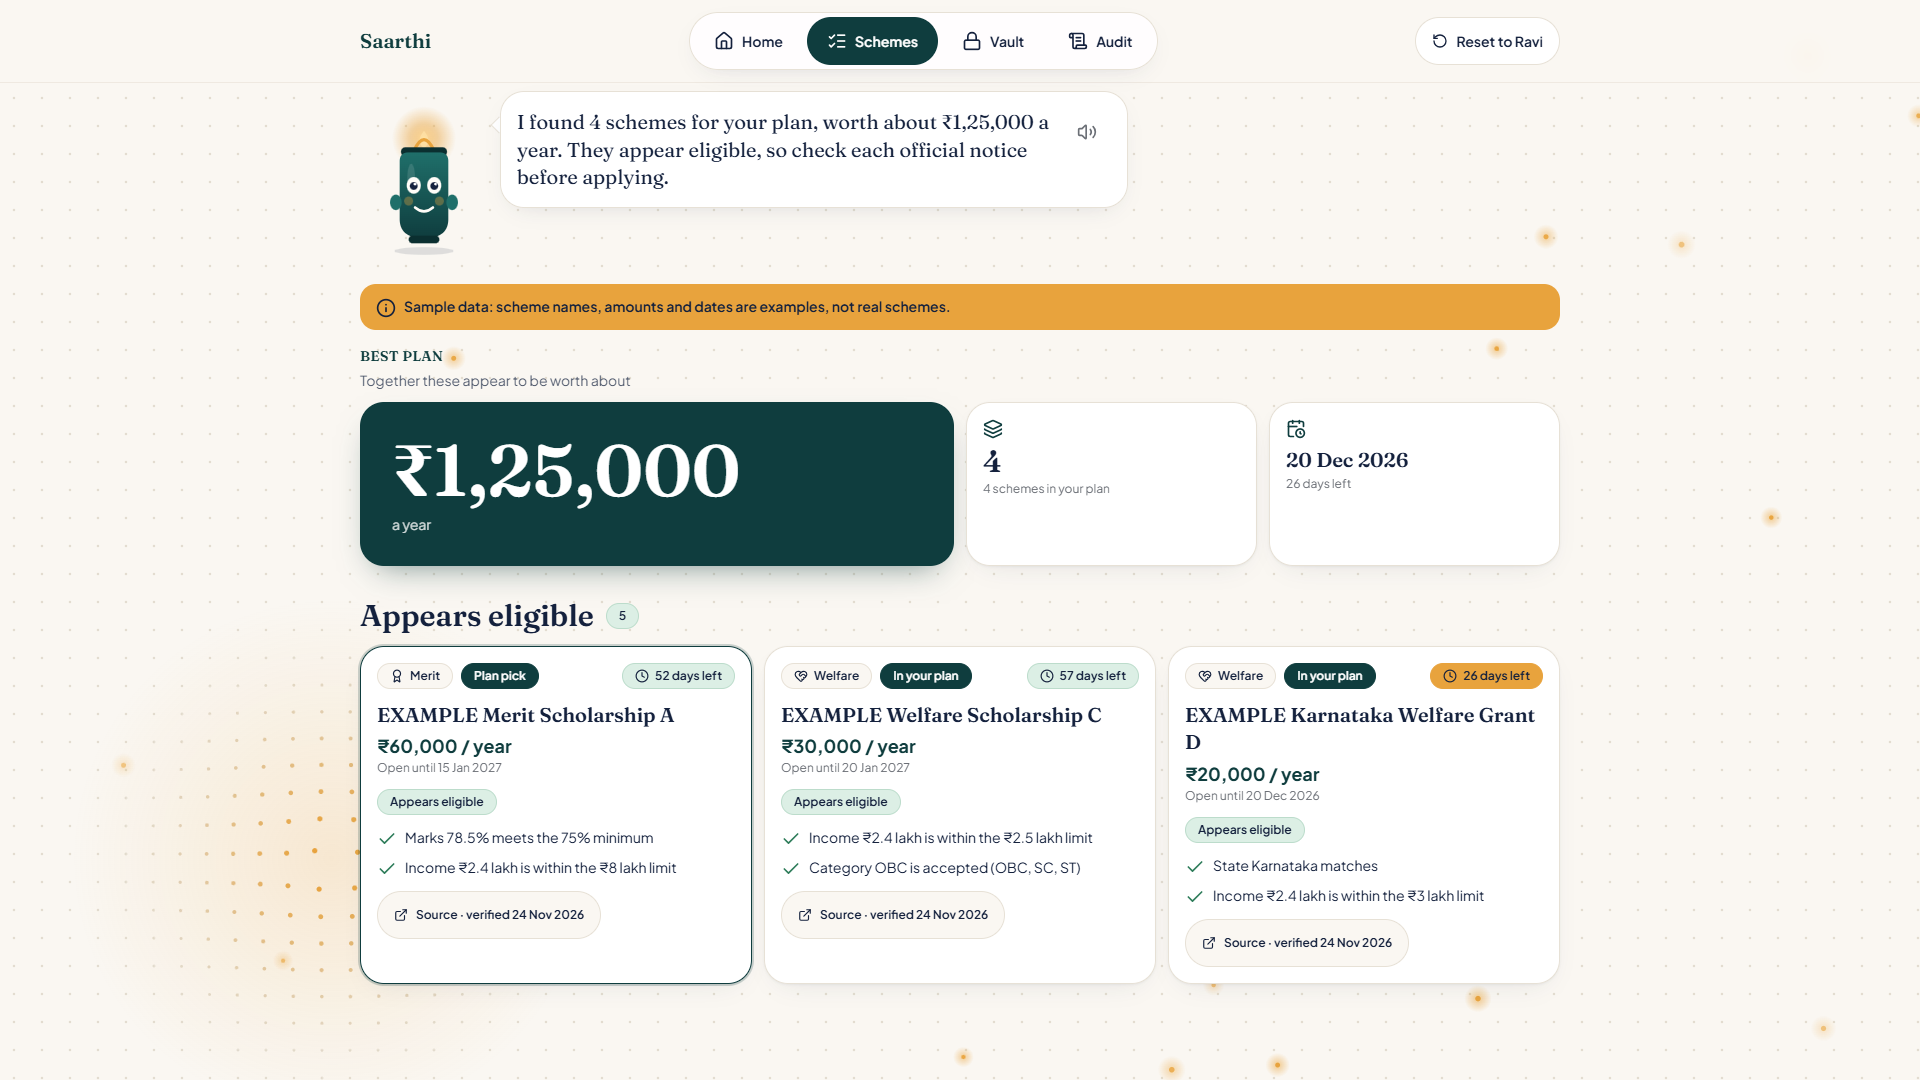
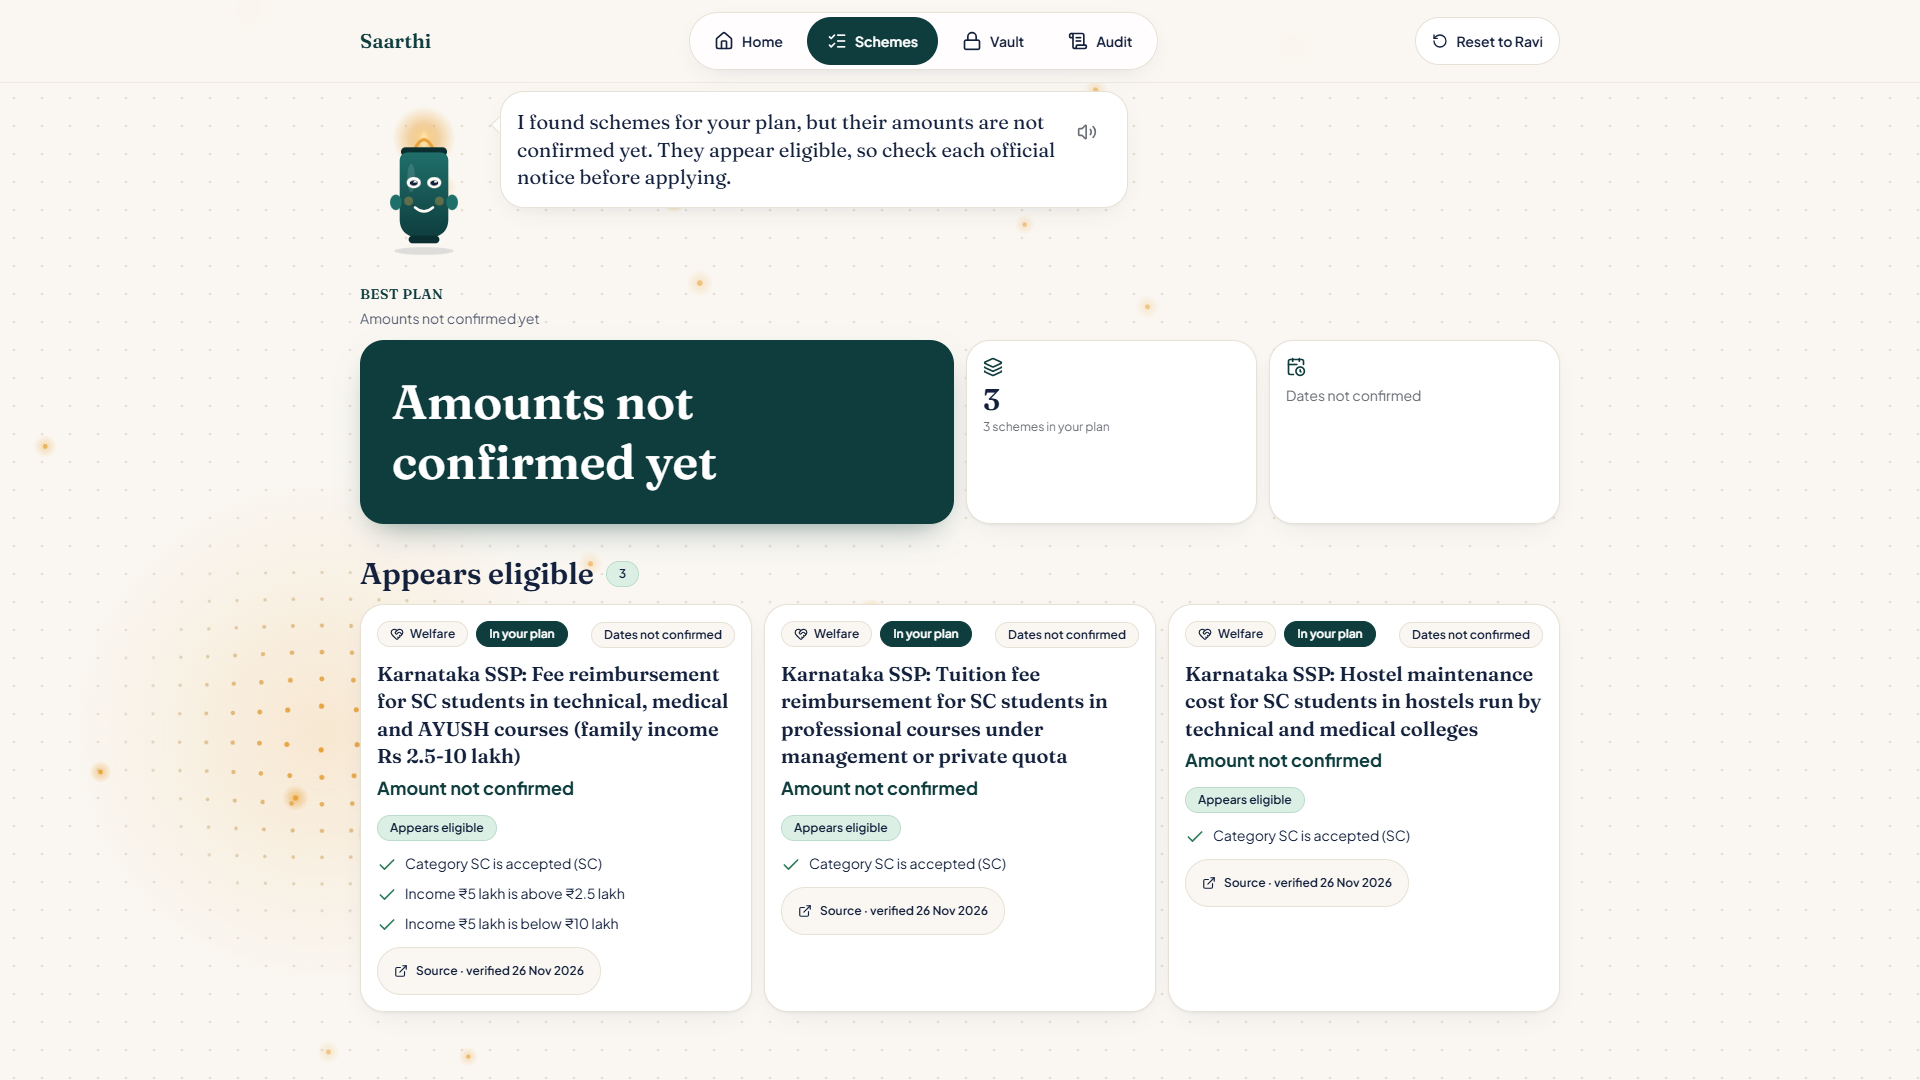
docs: screenshots in API mode, README dataset row and limits
Screenshots retaken in API mode at 1920x1080 from a production build with the real dataset and no EXAMPLE names. The vault checklist falls back to schemes the student may still qualify for, the plan hero handles unknown amounts, the sample document says SAMPLE, and the audit mock points at a real scheme id. README dataset row, known limits and caption updated; decision D22 recorded.

diff --git a/web/app/vault/page.tsx b/web/app/vault/page.tsx
@@ -2,7 +2,7 @@
 
 import { useEffect, useMemo, useRef, useState } from "react";
 import { Lock } from "lucide-react";
-import { getSchemes, optimize } from "@/lib/api";
+import { evaluate, getSchemes, optimize } from "@/lib/api";
 import { GuidePanel } from "@/components/guide/guide-panel";
 import { PageColumns } from "@/components/page-columns";
 import { DocRow } from "@/components/vault/doc-row";
@@ -16,15 +16,22 @@ export default function VaultPage() {
   const { profile, t } = useSession();
   const [schemes, setSchemes] = useState<Scheme[] | null>(null);
   const [selected, setSelected] = useState<string[]>([]);
+  const [possible, setPossible] = useState<string[]>([]);
   const container = useRef<HTMLElement>(null);
 
   useEffect(() => {
     let cancelled = false;
-    Promise.all([getSchemes(), optimize(profile)])
-      .then(([all, plan]) => {
+    Promise.all([getSchemes(), optimize(profile), evaluate(profile)])
+      .then(([all, plan, results]) => {
         if (cancelled) return;
         setSchemes(all);
         setSelected(plan.selected);
+        // Schemes the student has not been ruled out of: eligible, unknown or a near miss.
+        setPossible(
+          results
+            .filter((result) => result.verdict !== "ineligible" || result.near_miss)
+            .map((result) => result.scheme_id),
+        );
       })
       .catch(() => {
         if (!cancelled) setSchemes([]);
@@ -34,17 +41,23 @@ export default function VaultPage() {
     };
   }, [profile]);
 
-  // The checklist is every document the schemes in the plan ask for, with who needs it.
-  const needed = useMemo(() => {
-    const byDoc = new Map<string, string[]>();
-    for (const scheme of schemes ?? []) {
-      if (!selected.includes(scheme.id)) continue;
-      for (const doc of scheme.docs_required) {
-        byDoc.set(doc, [...(byDoc.get(doc) ?? []), scheme.name]);
+  // The checklist is every document the schemes in the plan ask for, with who needs it. If none of
+  // them has documents confirmed yet, it falls back to the schemes the student may still qualify for.
+  const { needed, usedFallback } = useMemo(() => {
+    const collect = (ids: string[]) => {
+      const byDoc = new Map<string, string[]>();
+      for (const scheme of schemes ?? []) {
+        if (!ids.includes(scheme.id)) continue;
+        for (const doc of scheme.docs_required) {
+          byDoc.set(doc, [...(byDoc.get(doc) ?? []), scheme.name]);
+        }
       }
-    }
-    return [...byDoc.entries()];
-  }, [schemes, selected]);
+      return [...byDoc.entries()];
+    };
+    const fromPlan = collect(selected);
+    if (fromPlan.length > 0) return { needed: fromPlan, usedFallback: false };
+    return { needed: collect(possible), usedFallback: true };
+  }, [schemes, selected, possible]);
 
   useReveal(container, schemes !== null);
 
@@ -67,6 +80,9 @@ export default function VaultPage() {
         </p>
       ) : (
         <div className="mt-4 space-y-3">
+          {usedFallback && needed.length > 0 && (
+            <p className="text-soft text-sm">{t("vault.fallbackNote")}</p>
+          )}
           {needed.map(([docKey, names]) => (
             <DocRow key={docKey} docKey={docKey} neededFor={names} />
           ))}

diff --git a/web/components/results/plan-hero.tsx b/web/components/results/plan-hero.tsx
@@ -37,19 +37,27 @@ export function PlanHero({
         {t("results.heroLabel")}
       </p>
       <p className="text-soft mt-1 text-sm">
-        {count > 0 ? t("results.heroBody") : t("results.noPlan")}
+        {count === 0
+          ? t("results.noPlan")
+          : plan.total_inr_per_year > 0
+            ? t("results.heroBody")
+            : t("results.amountsUnconfirmed")}
       </p>
 
       <div className="mt-3 grid grid-cols-2 gap-3 lg:grid-cols-4">
         <div className="col-span-2 rounded-3xl bg-primary p-5 text-white shadow-[0_14px_32px_-16px_rgba(15,61,62,0.6)] lg:p-8">
-          <p className="font-serif text-5xl font-semibold leading-none lg:text-7xl">
-            {plan.total_inr_per_year > 0 ? (
-              <CountUp value={plan.total_inr_per_year} kind="inr" />
-            ) : (
-              t("results.amountsUnconfirmed")
-            )}
-          </p>
-          <p className="mt-2 text-sm text-white/80">{t("results.perYear")}</p>
+          {plan.total_inr_per_year > 0 ? (
+            <>
+              <p className="font-serif text-5xl font-semibold leading-none lg:text-7xl">
+                <CountUp value={plan.total_inr_per_year} kind="inr" />
+              </p>
+              <p className="mt-2 text-sm text-white/80">{t("results.perYear")}</p>
+            </>
+          ) : (
+            <p className="font-serif text-3xl font-semibold leading-tight lg:text-5xl">
+              {t("results.amountsUnconfirmed")}
+            </p>
+          )}
         </div>
 
         <Card className="p-4">

diff --git a/web/lib/sample-docs.ts b/web/lib/sample-docs.ts
@@ -1,14 +1,14 @@
 // Made-up documents for the demo, so nobody has to upload a real certificate. No real data.
 export function makeSampleFile(docKey: string, label: string): File {
   const body = [
-    `EXAMPLE ${label.toUpperCase()}`,
+    `SAMPLE ${label.toUpperCase()}`,
     "",
     "This is a sample document made up for the Saarthi demo.",
     "It is not a real certificate and holds no real personal data.",
     "",
     `Document type : ${docKey}`,
     "Student       : Ravi (sample)",
-    "Issued by     : Example Office, Example District",
+    "Issued by     : Sample Office, Sample District",
   ].join("\n");
   return new File([body], `sample-${docKey}.txt`, { type: "text/plain" });
 }

diff --git a/context/decisions-and-progress.md b/context/decisions-and-progress.md
@@ -27,6 +27,7 @@ Update this file when a task finishes or a decision is made. Newest entries at t
 | D19 | 2026-11-24 | Engine, API and vault conventions (branch `rishon/engine-api-vault`). (a) An answer with `confirmed: false` counts as unknown in every endpoint, so an unconfirmed read-back can never change a verdict. (b) Near miss = ineligible on exactly one criterion, which is income over its cap by at most 20% of the cap, or marks under the minimum by at most 5 points; `fixable` is false for both (no fixable case is modelled yet). (c) Question choice: expected number of `unknown` schemes settled, with every plausible answer weighted equally (numbers are tried below, at, between and above each threshold); ties go to the cheaper question. Question text comes in en, hi and kn; choice labels stay English because `web/lib/answer-config.ts` maps labels to values. (d) `/slots/extract` is keyword and number rules only, no LLM. (e) Vault `appendAudit(entry, chain?)` continues the chain it is given (the adapter now passes it), because the UI seeds its log from `mocks/audit.json`; the D15 adapter called it without the chain, which would have restarted `idx` at 0. (f) `PUT /audit/head` only moves forward: a lower `idx` or a different hash at the same `idx` returns 409. Vault blobs and the head are kept in memory for round 1. (g) Answer to open decision 7, confirmed 2026-11-24: the optimiser never selects a closed scheme and lists it in `dropped` as "Application window is closed" (what the results screen mock already expects). A window is closed if its `status` is closed or its `closes` date is before `SAARTHI_TODAY` (or today). | Keeps the contracts unchanged while fixing two integration gaps found by running the UI against the real API and vault. No new web dependencies: vault tests use Node's built-in runner. API dependencies: fastapi, uvicorn, pydantic, httpx, python-multipart (pinned in `api/requirements.txt`). |
 | D20 | 2026-11-24 | Voice tested live with ElevenLabs (free plan). Speech-to-text (`scribe_v1`) transcribed English, Hindi and Kannada test speech word for word. Text-to-speech: `eleven_flash_v2_5` is good for English and Hindi but turns Kannada into anglicised gibberish, so Kannada now uses `eleven_v3` (`ELEVENLABS_TTS_MODEL_KN`). Free plans cannot use library voices through the API (HTTP 402 `paid_plan_required`); use a default voice such as Sarah (`EXAVITQu4vr4xnSDxMaL`). `/slots/extract` now reads Hindi and Kannada (number words such as ढाई and ಎರಡೂವರೆ, units, year ordinals, category, state, college type, gender, Indic digits): the same spoken answer gives the same profile in all three languages. | Found by a live round trip (speak, transcribe, extract). Kannada in the standalone speech models is confirmed; Kannada in agent mode is still unverified. |
 | D21 | 2026-11-24 | Voice and languages in the app. The mic records in the browser (MediaRecorder, max 10 s, audio kept in memory only), sends it to `/voice/transcribe`, then `/slots/extract` for the field being asked; a value found is proposed with `source: "voice"`, so the read-back still asks the student to confirm. The speaker icon plays the message through `/voice/speak`. With mocks on, voice is off and tapping works as before. UI text now in Hindi and Kannada (`i18n/hi.json`, `i18n/kn.json`, nav labels included); choice chips show translated labels but keep English labels as keys for `answer-config.ts`. Scheme names and engine reasons stay English, and the language note says so. `web/.env.example` now points at the real API. Fixed: the speech bubble's typing overlay covered the speaker button and swallowed clicks (`pointer-events-none`). | Tested in headless Chrome with spoken Kannada and Hindi answers fed through a fake microphone: transcript, read-back, confirm, results and read-aloud all worked with no console errors. Touches column-1 files (interview page, guide panel, mic button, speech bubble, navs, session, i18n); review before merging. |
+| D22 | 2026-11-26 | Scheme dataset integrated. `data/schemes.json` holds 10 sourced schemes from D1 (6 central, 4 Karnataka; 7 below 0.7 confidence). The API reads it by default (the EXAMPLE fixture path is gone from `.env.example`). New optional field `exclusivity_source` (other scheme id to source URL) marks the exclusive pairs an official source states; the optimiser says "official rule" only for those and "inferred from the scheme guidelines, check the notice" otherwise (4 central SC and Karnataka pairs are inferred). `exclusivity_group` removed (nothing read it). Missing labels fall back to English, then to a readable word, never a raw key; the guide has singular and unconfirmed-amount wording; the vault checklist falls back to schemes the student may still qualify for. In API mode "Start as Ravi" is an SC student with a 5 lakh income, found by searching 11,520 profiles with the engine (best possible 4 of 6 requirements: no near-miss is ever fixable and no window is closed in the data); mock mode keeps its OBC Ravi. | Reviewed in `docs/data-review-2026-11-26.md`. The Ravi plan has three Karnataka schemes whose amounts are unknown, so its total reads "Amounts not confirmed yet". |
 
 ## Open decisions
 1. Final project name (Saarthi is a placeholder; check for existing products with that name).
@@ -55,7 +56,7 @@ Update this file when a task finishes or a decision is made. Newest entries at t
 
 ### Data
 - [ ] Scheme schema frozen (see `data-and-contracts.md`)
-- [ ] Schemes collected from official sources (target about 30): `0 / 30`
+- [ ] Schemes collected from official sources (target about 30): `10 / 30`
 - [ ] Exclusivity rules verified
 - [x] Synthetic test profiles created (`data/test_profiles.json`)
 
@@ -110,3 +111,4 @@ Add one line per finished task: `YYYY-MM-DD HH:MM · owner · what changed · co
 - 2026-11-24 · engine/api/vault · rules engine, question picker, optimiser, FastAPI endpoints, browser vault and audit chain; UI tested end to end against them (D19) · see git log
 - 2026-11-24 · api · voice tested live; Kannada speech model, Hindi and Kannada slot extraction (D20) · see git log
 - 2026-11-24 · web · mic and read-aloud on the voice API, Hindi and Kannada UI, README status (D21) · see git log
+- 2026-11-26 · data · D1's 10 sourced schemes integrated, dropped-reason wording, labels and persona fixes (D22) · see git log

diff --git a/README.md b/README.md
@@ -69,7 +69,7 @@ India has many central and state scholarships, but students from underserved bac
   <img src="docs/screenshots/audit-broken.png" width="100%" alt="Audit chain broken at an edited entry" />
 </div>
 
-*Prototype screenshots, shown with labelled sample data.*
+*Prototype screenshots with the sourced scheme data and a sample student.*
 
 ## How Saarthi Is Different
 
@@ -139,7 +139,7 @@ We're upfront about this, since it matters for judging the demo honestly. Update
 
 | Component | Status |
 |---|:---:|
-| Scheme dataset (central + Karnataka, undergraduate engineering) | 🟡 **In progress**, being collected from official sources. The demo runs on clearly labelled EXAMPLE schemes until it lands |
+| Scheme dataset (central + Karnataka, undergraduate engineering) | 🟡 **In progress.** 10 schemes sourced from official portals, with a confidence level recorded on each. More are listed for review. The sample-data mode still uses clearly labelled EXAMPLE schemes |
 | Eligibility engine (tri-state verdicts, explanations, near-miss) | ✅ **Built and tested** in `/engine`, used by the UI in API mode |
 | Adaptive interview (information-gain question picker) | ✅ **Working**, questions in English, Hindi and Kannada |
 | Portfolio optimiser (NSP one-merit-plus-welfare rule) | ✅ **Working** |
@@ -156,6 +156,9 @@ We're upfront about this, since it matters for judging the demo honestly. Update
 **Limits to keep in mind**
 - Scheme criteria, amounts and deadlines go stale. Every record carries a `source_url` and `last_verified` date.
 - Saarthi says a student *appears eligible*. It is not an approval, and the official notice is the final word.
+- Scheme level (UG, PG, diploma) is not enforced yet, so a scheme without a course-level condition can match any level.
+- Some state scheme amounts are unknown and show as "Amount not confirmed".
+- Some scheme criteria are lower confidence: conditions such as merit percentile, college quota, hostel stay and domicile are not checked, so "appears eligible" can be wider than the real rule.
 - Speech recognition was tested on clean synthetic speech in all three languages. Real, noisy, regional-accent audio is still to be tested, so every answer is read back for confirmation and tapping always works.
 - Voice audio goes to a cloud service. Students are asked to speak profile answers only, never IDs or document contents.
 - A lost passphrase means lost vault data. A printed recovery key is planned.
